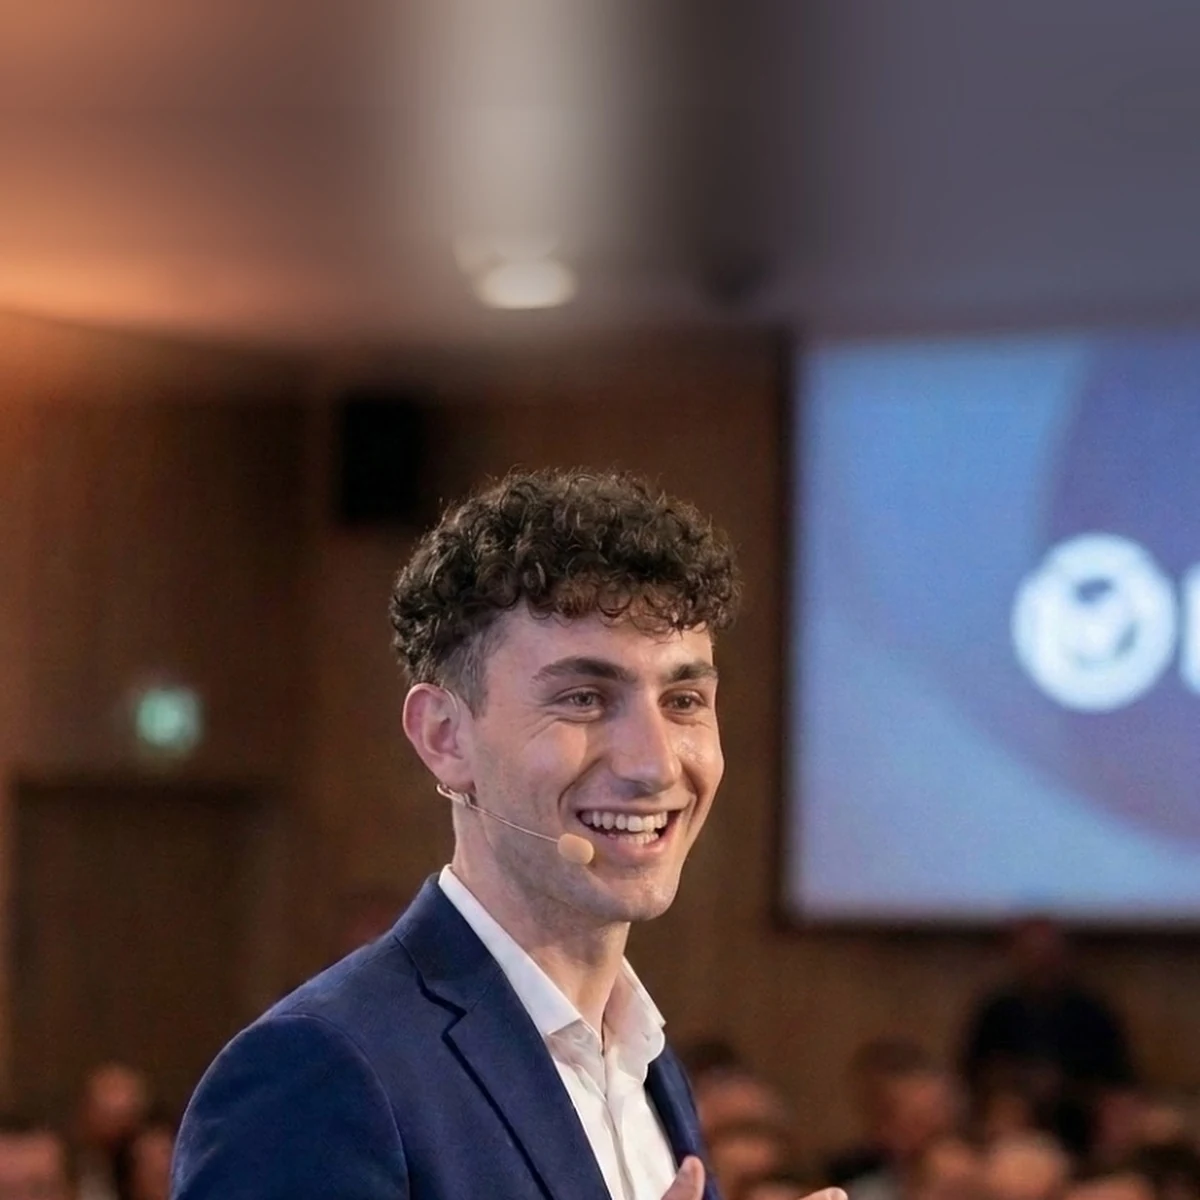
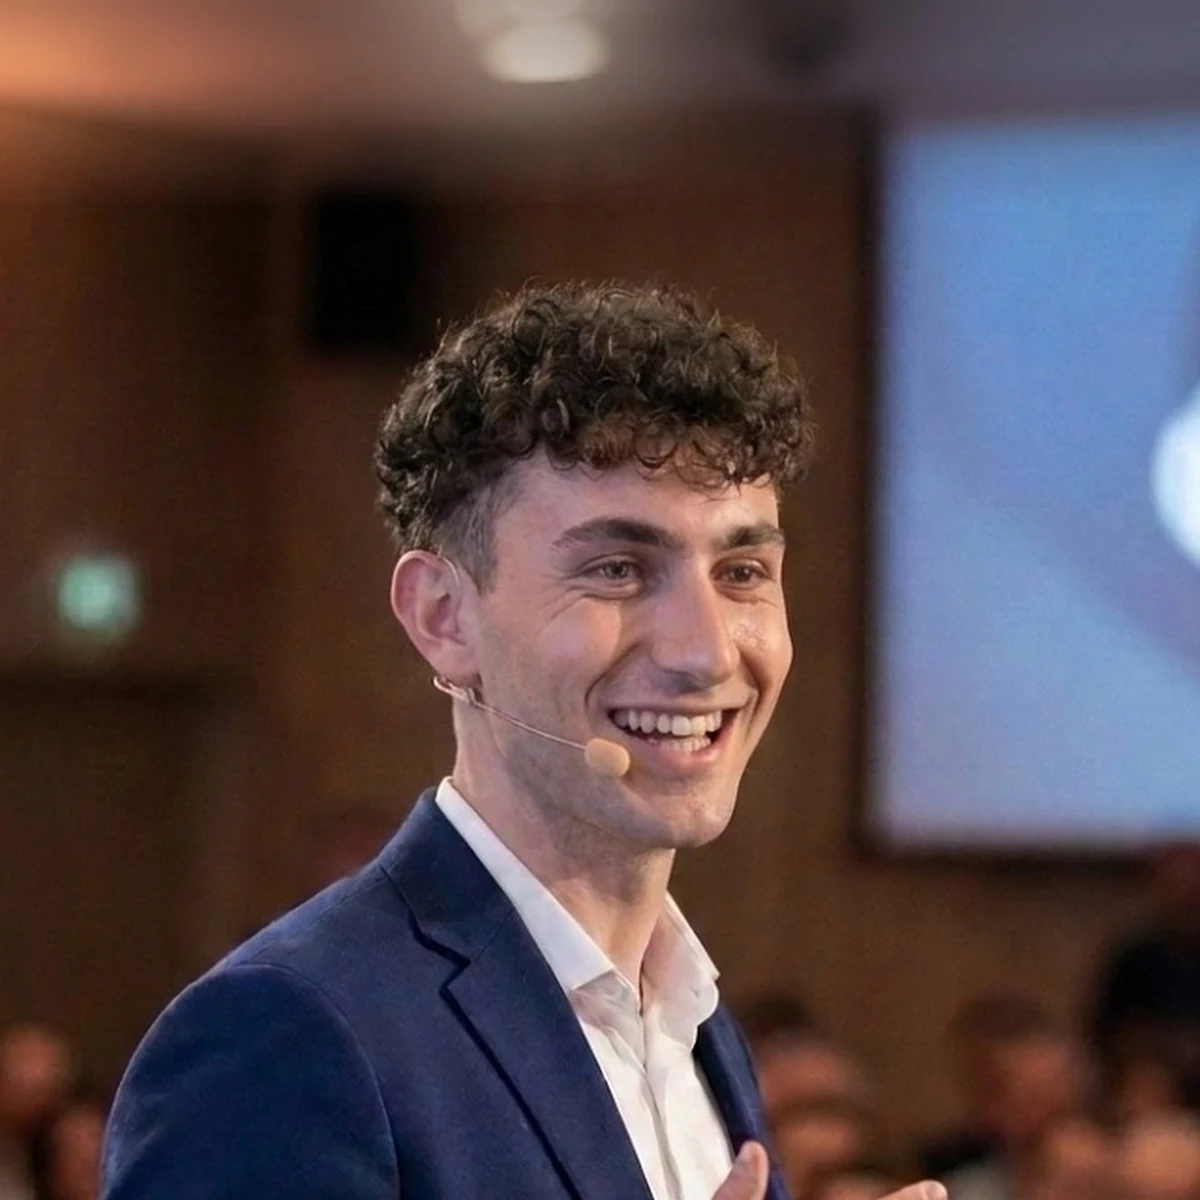
Foto de Darío: más cerca y con la cara más arriba

diff --git a/index.html b/index.html
@@ -478,7 +478,7 @@
         </ul>
       </div>
       <figure class="pv-person">
-        <img src="/home/img/dario.webp?v=2" alt="Darío Pulido, fundador de Widy" width="640" height="640" loading="lazy">
+        <img src="/home/img/dario.webp?v=3" alt="Darío Pulido, fundador de Widy" width="640" height="640" loading="lazy">
         <figcaption><strong>Darío Pulido</strong><span>Fundador de Widy · Sevilla</span></figcaption>
       </figure>
     </div>
